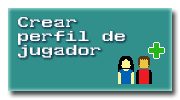
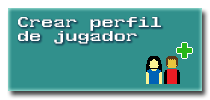
Changes on "players" page.

Changed region(s): [[0.0833, 0.15, 0.7778, 0.6], [0.6389, 0.09, 1.0, 0.93], [0.0278, 0.09, 0.0833, 0.96]]

diff --git a/css/style.css b/css/style.css
@@ -216,7 +216,7 @@ img.yo {
     width: 90%;
 }
 
-#articulos .art, #secciones .param {
+#articulos .art, .param {
 	width: 15%;
 	margin-left: 1%;
 	margin-bottom: 1%;
@@ -231,15 +231,15 @@ img.yo {
 	box-shadow: -0.5em -0.5em 3em #63080A inset;
 }
 
-#secciones .param {
+.param {
 	background-color: #9260EA;
-	width: 29%;
+	width: 18%;
 	-webkit-box-shadow: -0.5em -0.5em 3em #34156B inset;
 	-moz-box-shadow: -0.5em -0.5em 3em #34156B inset;
 	box-shadow: -0.5em -0.5em 3em #34156B inset;
 }
 
-#articulos .art img, #secciones .param img {
+#articulos .art img, .param img {
 	clear: both;
 	margin-left: auto;
 	margin-right: auto;
@@ -247,21 +247,21 @@ img.yo {
 	padding-bottom: 10px;
 }
 
-#articulos .art .name, #secciones .param h4 {
+#articulos .art .name, .param h4 {
 	height: 30px;
 	text-align: center;
 	margin: 0px;
 	margin-bottom: 1%;
 }
 
-#secciones .param h4 {
+.param h4 {
 	color: #FFF;
 	padding-top: 0;
 	height: auto;
     line-height: 100%;
 }
 
-#secciones .param p {
+.param p {
 	clear: both;
 	text-align: justify;
 	font-size: 12px;

diff --git a/protected/modules/jugadores/views/jugadores/index.php b/protected/modules/jugadores/views/jugadores/index.php
@@ -2,36 +2,36 @@
 
 <nav>
 	<ul>
-		<li><?php echo CHtml::link('<img src="'.Yii::app()->request->baseUrl.'/images/pj_nav/n_pj_01.png" width="180" height="100" />',  Yii::app()->createurl('jugadores/create')) //Module/controller/view ?> </li>
-		<li><?php echo CHtml::link('<img src="'.Yii::app()->request->baseUrl.'/images/pj_nav/n_pj_02.png" width="180" height="100" />',  Yii::app()->createurl('jugadores/buscador')) //Module/controller/view ?> </li>
-
-		<li><?php echo CHtml::link('<img src="'.Yii::app()->request->baseUrl.'/images/pj_nav/n_pj_03.png" width="180" height="100" />',  Yii::app()->createurl('jugadores/nuevoCodigo')) //Module/controller/view ?> </li>
-		<li><?php echo CHtml::link('<img src="'.Yii::app()->request->baseUrl.'/images/pj_nav/n_pj_04.png" width="180" height="100" />',  Yii::app()->createurl('jugadores/updateForm')) //Module/controller/view ?> </li>
+		<li><?php echo CHtml::link('<img src="'.Yii::app()->request->baseUrl.'/images/pj_nav/n_pj_01.png" width="210" height="100" />',  Yii::app()->createurl('jugadores/create')) //Module/controller/view ?> </li>
+		<li><?php echo CHtml::link('<img src="'.Yii::app()->request->baseUrl.'/images/pj_nav/n_pj_02.png" width="210" height="100" />',  Yii::app()->createurl('jugadores/buscador')) //Module/controller/view ?> </li>
+		<li><?php echo CHtml::link('<img src="'.Yii::app()->request->baseUrl.'/images/pj_nav/n_pj_03.png" width="210" height="100" />',  Yii::app()->createurl('jugadores/nuevoCodigo')) //Module/controller/view ?> </li>
+		<li><?php echo CHtml::link('<img src="'.Yii::app()->request->baseUrl.'/images/pj_nav/n_pj_04.png" width="210" height="100" />',  Yii::app()->createurl('jugadores/updateForm')) //Module/controller/view ?> </li>
 	</ul>
 </nav>
 
 <div class="infosec">
 	<p>En esta sección pueden buscar a otros jugadores del juego con intereses similares, con un pokémon en específico del Friend Safari (Safari Amigo) o simplemente conocer gente nueva.</p>
 	<p>Los parámetros actuales que se están guardando en el módulo hasta la fecha son:</p>
+	
+		<div class="param">
+			<img src='<?php echo imageDir()?>/articulos/003.png' />
+			<h4>Pokémon Safari</h4>
+			<p>Explicación bonita de pokémon safari</p>
+		</div>
+		<div class="param">
+			<img src='<?php echo imageDir()?>/articulos/003.png' />
+			<h4>TSV</h4>
+			<p>Explicación bonita de TSV</p>
+		</div>
+		<div class="param">
+			<img src='<?php echo imageDir()?>/articulos/003.png' />
+			<h4>Interés en duelos</h4>
+			<p>(separados por tipo de duelo y tier).</p>
+		</div>
+
 </div>
 
-<div id="secciones">
-	<div class="param">
-		<img src='<?php echo imageDir()?>/articulos/003.png' />
-		<h4>Pokémon Safari</h4>
-		<p>Explicación bonita de pokémon safari</p>
-	</div>
-	<div class="param">
-		<img src='<?php echo imageDir()?>/articulos/003.png' />
-		<h4>TSV</h4>
-		<p>Explicación bonita de TSV</p>
-	</div>
-	<div class="param">
-		<img src='<?php echo imageDir()?>/articulos/003.png' />
-		<h4>Interés en duelos</h4>
-		<p>(separados por tipo de duelo y tier).</p>
-	</div>
-</div>
+
 
 
 
